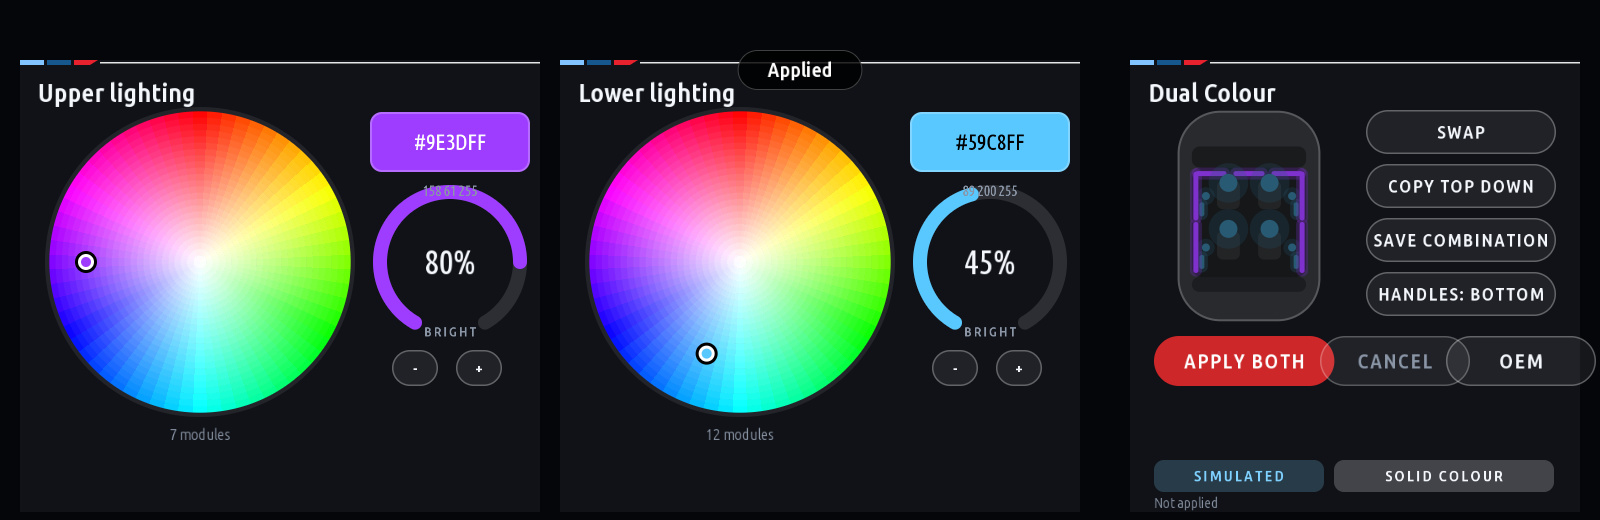
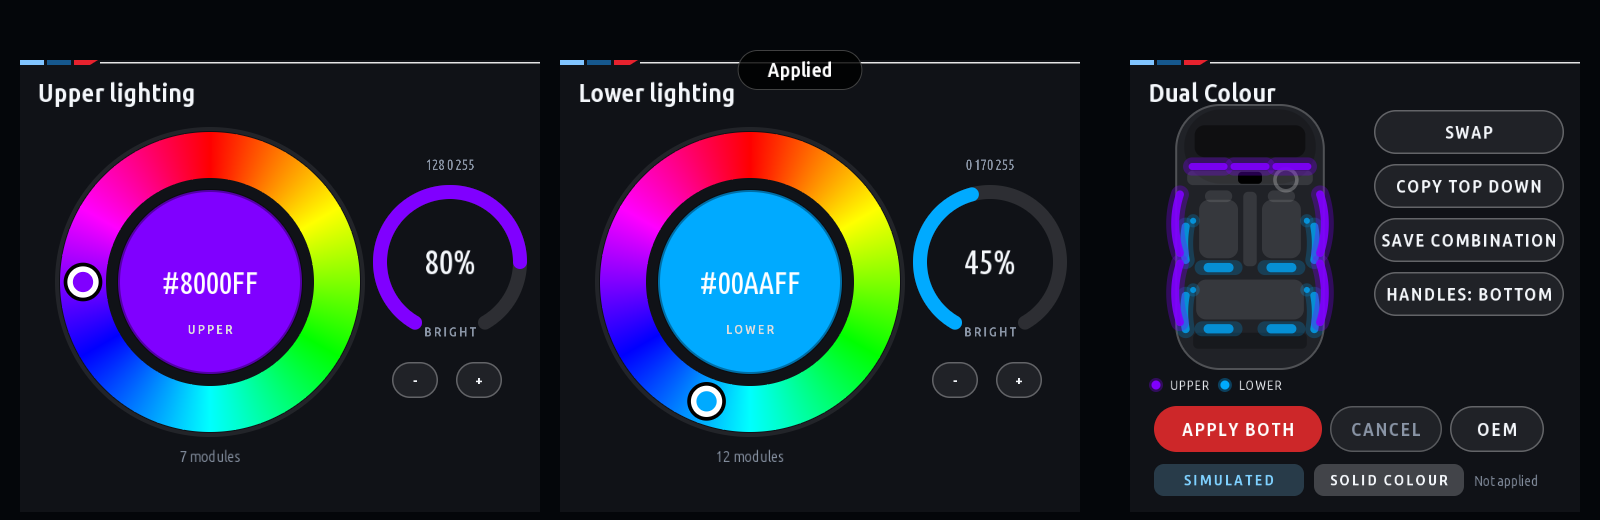
Cabin view after the mock-up, Dual page on hue rings, saturation fixed at 100
- ui_widgets carView redrawn: nose, glass, dashboard with screen and wheel (right-hand
  drive), seats, console, rear bench; the dashboard lines as three glowing segments, the
  door lines and map pockets as arcs following the body, handles as dots, footwells as
  pools; a heading, a legend and a status line; the colour stays vivid and the brightness
  sets the glow.
- Dual page: the same hue ring and dial as the Colours page for upper and lower, the cabin
  with both groups in the middle column, the action row laid out without overlap.
- Saturation is always 100: the control is gone, the ring and the knob pick pure hues;
  only the BDC's library colours carry their own.
- Tests follow (87 passing); screenshots regenerated.

diff --git a/bmw-g20-idrive-rgb/app/ambient_rgb/main.js b/bmw-g20-idrive-rgb/app/ambient_rgb/main.js
@@ -49,8 +49,9 @@ mgu.run({
 
         /* ---------- drafts (previews): one per page, never sent anywhere by themselves ---------- */
         const draft = {
-            colours: { hsv: { h: 262, s: 0.76, v: 1 }, brightness: 100, zone: 0 },                       // zone: index into ZONE_ORDER
-            dual: { top: { hsv: { h: 270, s: 0.76, v: 1 }, brightness: 80 }, bottom: { hsv: { h: 200, s: 0.65, v: 1 }, brightness: 45 }, focus: 'top' },
+            // (saturation is always 1: the ring picks pure hues; only the BDC's library colours carry their own)
+            colours: { hsv: { h: 262, s: 1, v: 1 }, brightness: 100, zone: 0 },                          // zone: index into ZONE_ORDER
+            dual: { top: { hsv: { h: 270, s: 1, v: 1 }, brightness: 80 }, bottom: { hsv: { h: 200, s: 1, v: 1 }, brightness: 45 }, focus: 'top' },
             modes: { mode: 0, params: clone(S.DEFAULTS) },                                                 // mode: index into MODE_ORDER
         };
         let dirty = { colours: false, dual: false, modes: false };
@@ -152,12 +153,12 @@ mgu.run({
         ctx.onTap((x, y) => {
             const g = geometry;
             if (page === 0) {
-                if (g.hue) { const h = W.hueRingHit(x, y, g.hue); if (h != null) { draft.colours.hsv.h = h; markDirty('colours'); return; } }
+                if (g.hue) { const h = W.hueRingHit(x, y, g.hue); if (h != null) { draft.colours.hsv = { h, s: 1, v: 1 }; markDirty('colours'); return; } }
                 if (g.ring) { const v = W.ringHit(x, y, g.ring); if (v != null) { draft.colours.brightness = v; markDirty('colours'); } }
             } else if (page === 1) {
                 for (const side of ['top', 'bottom']) {
-                    const w = g['wheel_' + side], r = g['ring_' + side];
-                    if (w) { const hit = C.wheelHit(x, y, w.cx, w.cy, w.r, { slack: 10 }); if (hit) { draft.dual[side].hsv = { h: hit.h, s: hit.s, v: draft.dual[side].hsv.v }; draft.dual.focus = side; markDirty('dual'); return; } }
+                    const hr = g['hue_' + side], r = g['ring_' + side];
+                    if (hr) { const h = W.hueRingHit(x, y, hr); if (h != null) { draft.dual[side].hsv = { h, s: 1, v: 1 }; draft.dual.focus = side; markDirty('dual'); return; } }
                     if (r) { const v = W.ringHit(x, y, r, 20); if (v != null) { draft.dual[side].brightness = v; draft.dual.focus = side; markDirty('dual'); return; } }
                 }
             }
@@ -188,7 +189,7 @@ mgu.run({
             ax += G.button(cv, t, ax, y, 0, h, 'Restore OEM', restoreOem, { key: 'oem', busy: busy || !ctl.program }) + 10;
             return ax;
         };
-        const wheelControl = (key, get, set) => editor.control({ key, get, set, step: 3, wrap: 360 });
+        const wheelControl = (key, get, set) => editor.control({ key, get, set: (h) => set(h), step: 3, wrap: 360 });
         const ringControl = (key, get, set) => editor.control({ key, get, set, step: 2, min: 0, max: 100 });
         const enter = (key) => () => { if (!editor.enter(key)) return; if (!editor.available) say('Turn the knob: no controller gate, use + / -', 2000); };
 
@@ -197,9 +198,8 @@ mgu.run({
         function drawColours(cv, t) {
             editor.reset();
             const d = draft.colours, c = rgbOf(d.hsv), hex = C.rgbToHex(c);
-            wheelControl('wheel', () => d.hsv.h, (h) => { d.hsv.h = h; });
+            wheelControl('wheel', () => d.hsv.h, (h) => { d.hsv = { h, s: 1, v: 1 }; });
             ringControl('ring', () => d.brightness, (v) => { d.brightness = v; });
-            editor.control({ key: 'sat', get: () => Math.round(d.hsv.s * 100), set: (v) => { d.hsv.s = v / 100; }, step: 5, min: 0, max: 100 });
             // the list on the left: this page, the other ways of lighting the cabin
             G.panel(cv, t, 20, 60, 400, 452, 'Colour');
             const rows = [
@@ -222,13 +222,11 @@ mgu.run({
             geometry.hue = W.hueRing(cv, t, HUE.cx, HUE.cy, HUE.r, HUE.w, d.hsv, { editing: editor.isEditing('wheel'), caption: dirty.colours ? 'preview' : ctl.program ? 'applied' : 'not applied' });
             cv.target(HUE.cx - 75, HUE.cy - 75, 150, 150, enter('wheel'), 'wheel');
             cv.text('HUE ' + Math.round(d.hsv.h) + '°   ·   RGB ' + c.r + ' ' + c.g + ' ' + c.b, HUE.cx, HUE.cy + HUE.r + 24, 15, t.dim, { align: 'center', font: 'num' });
-            // the brightness dial and saturation
-            geometry.ring = W.ring(cv, t, DIAL.cx, DIAL.cy, DIAL.r, d.brightness, 'Brightness', { editing: editor.isEditing('ring'), colour: hex, ramp: true, width: 14, size: 32 });
-            cv.target(DIAL.cx - 50, DIAL.cy - 50, 100, 100, enter('ring'), 'ring');
-            G.button(cv, t, DIAL.cx - 56, DIAL.cy + 82, 46, 36, '-', () => { d.brightness = Math.max(0, d.brightness - 5); markDirty('colours'); }, { key: 'ring-' });
-            G.button(cv, t, DIAL.cx + 10, DIAL.cy + 82, 46, 36, '+', () => { d.brightness = Math.min(100, d.brightness + 5); markDirty('colours'); }, { key: 'ring+' });
-            W.stepper(cv, t, DIAL.cx - 55, 346, 110, 'Saturation', Math.round(d.hsv.s * 100) + '%', () => { d.hsv.s = Math.max(0, d.hsv.s - 0.05); markDirty('colours'); }, () => { d.hsv.s = Math.min(1, d.hsv.s + 0.05); markDirty('colours'); }, 'sat', { editing: editor.isEditing('sat') });
-            cv.target(DIAL.cx - 55, 346, 110, 46, enter('sat'), 'sat');
+            // the brightness dial
+            geometry.ring = W.ring(cv, t, DIAL.cx, DIAL.cy + 40, DIAL.r, d.brightness, 'Brightness', { editing: editor.isEditing('ring'), colour: hex, ramp: true, width: 14, size: 32 });
+            cv.target(DIAL.cx - 50, DIAL.cy + 40 - 50, 100, 100, enter('ring'), 'ring');
+            G.button(cv, t, DIAL.cx - 56, DIAL.cy + 122, 46, 36, '-', () => { d.brightness = Math.max(0, d.brightness - 5); markDirty('colours'); }, { key: 'ring-' });
+            G.button(cv, t, DIAL.cx + 10, DIAL.cy + 122, 46, 36, '+', () => { d.brightness = Math.min(100, d.brightness + 5); markDirty('colours'); }, { key: 'ring+' });
             // actions under the ring
             const ax = applyRow(cv, t, 460, 462, 44, 'Apply', dirty.colours);
             G.button(cv, t, ax, 462, 0, 44, favs.has(hex) ? 'Saved' : 'Save colour', () => { if (favs.add(hex)) say('Saved ' + hex); }, { key: 'save', busy: favs.has(hex) });
@@ -236,7 +234,11 @@ mgu.run({
             G.button(cv, t, 1100, 64, 460, 44, 'Applies to: ' + S.zoneLabel(zoneName(), ctl.slaves) + '  ›', () => { d.zone = (d.zone + 1) % ZONE_ORDER.length; markDirty('colours'); }, { key: 'zone' });
             let scene = null;
             try { scene = S.render(coloursProgram(), ctl.slaves, Date.now()); } catch (e) { scene = null; }
-            W.carView(cv, t, 1150, 116, 360, 316, ctl.slaves, scene, { label: dirty.colours ? 'preview (not applied)' : ctl.program ? 'as applied' : 'factory lighting' });
+            W.carView(cv, t, 1080, 110, 500, 346, ctl.slaves, scene, {
+                heading: 'front · right-hand drive',
+                legend: [{ colour: hex, text: S.zoneLabel(zoneName(), ctl.slaves) + ' · solid' }],
+                status: (ctl.kind === 'mock' ? 'simulated · ' : '') + (dirty.colours ? 'preview' : ctl.program ? 'applied' : 'factory'), statusColour: dirty.colours ? t.warn : ctl.program ? t.ok : t.dim,
+            });
             // the BDC's library colours
             let cx = 1100;
             favs.oem().forEach((f) => {
@@ -253,39 +255,45 @@ mgu.run({
         function drawDual(cv, t) {
             editor.reset();
             const d = draft.dual;
+            // two pickers as on the Colours page: the hue ring with the colour in its middle, the brightness dial beside it
             ['top', 'bottom'].forEach((side, i) => {
                 const x0 = 40 + i * 540, s = d[side], col = rgbOf(s.hsv), hex = C.rgbToHex(col);
-                wheelControl('wheel_' + side, () => s.hsv.h, (h) => { s.hsv.h = h; d.focus = side; });
+                wheelControl('wheel_' + side, () => s.hsv.h, (h) => { s.hsv = { h, s: 1, v: 1 }; d.focus = side; });
                 ringControl('ring_' + side, () => s.brightness, (v) => { s.brightness = v; d.focus = side; });
                 G.panel(cv, t, x0 - 20, 60, 520, 452, side === 'top' ? 'Upper lighting' : 'Lower lighting');
-                geometry['wheel_' + side] = W.wheel(cv, t, x0 + 10, 112, 300, s.hsv, { editing: editor.isEditing('wheel_' + side) });
-                cv.target(x0 + 100, 202, 120, 120, enter('wheel_' + side), 'wheel_' + side);   // (the centre, as on Colours)
+                const hc = { cx: x0 + 170, cy: 282, r: 150, w: 46 };
+                geometry['hue_' + side] = W.hueRing(cv, t, hc.cx, hc.cy, hc.r, hc.w, s.hsv, { editing: editor.isEditing('wheel_' + side), caption: side === 'top' ? 'upper' : 'lower' });
+                cv.target(hc.cx - 65, hc.cy - 65, 130, 130, enter('wheel_' + side), 'wheel_' + side);   // (the disc: the knob's target)
                 geometry['ring_' + side] = W.ring(cv, t, x0 + 410, 262, 70, s.brightness, 'Bright', { editing: editor.isEditing('ring_' + side), colour: hex, width: 14, size: 34 });
                 cv.target(x0 + 370, 222, 80, 80, enter('ring_' + side), 'ring_' + side);
-                G.button(cv, t, x0 + 352, 350, 46, 36, '-', () => { s.brightness = Math.max(0, s.brightness - 5); markDirty('dual'); }, { key: 'ring_' + side + '-' });
-                G.button(cv, t, x0 + 416, 350, 46, 36, '+', () => { s.brightness = Math.min(100, s.brightness + 5); markDirty('dual'); }, { key: 'ring_' + side + '+' });
-                W.swatch(cv, t, x0 + 330, 112, 160, 60, col, null, { size: 22, radius: 12, editing: editor.isEditing('wheel_' + side) });
-                cv.text(col.r + ' ' + col.g + ' ' + col.b, x0 + 410, 196, 15, t.dim, { align: 'center', font: 'num' });
+                G.button(cv, t, x0 + 352, 362, 46, 36, '-', () => { s.brightness = Math.max(0, s.brightness - 5); markDirty('dual'); }, { key: 'ring_' + side + '-' });
+                G.button(cv, t, x0 + 416, 362, 46, 36, '+', () => { s.brightness = Math.min(100, s.brightness + 5); markDirty('dual'); }, { key: 'ring_' + side + '+' });
+                cv.text(col.r + ' ' + col.g + ' ' + col.b, x0 + 410, 170, 15, t.dim, { align: 'center', font: 'num' });
                 const n = ctl.slaves.filter((m) => S.groupOf(m, settings.get('handles') || 'bottom') === side).length;
-                cv.text(n + ' modules', x0 + 160, 440, 15, t.dim, { align: 'center' });
+                cv.text(n + ' modules', x0 + 170, 462, 15, t.dim, { align: 'center' });
             });
-            // the middle column: swap / copy / save / apply
+            // the middle column: the cabin with both groups, swap / copy / save / handles, Apply both
             const mx = 1130, my = 60;
             G.panel(cv, t, mx, my, 450, 452, 'Dual Colour');
             let scene = null;
             try { scene = S.render(dualProgram(), ctl.slaves, Date.now()); } catch (e) { scene = null; }
-            W.carView(cv, t, mx + 14, my + 44, 210, 224, ctl.slaves, scene);
+            W.carView(cv, t, mx + 10, my + 40, 220, 300, ctl.slaves, scene, {
+                legend: [{ colour: C.rgbToHex(rgbOf(d.top.hsv)), text: 'upper' }, { colour: C.rgbToHex(rgbOf(d.bottom.hsv)), text: 'lower' }],
+            });
             let by = my + 50;
-            const bw = 190, bx = mx + 236;
+            const bw = 190, bx = mx + 244;
             G.button(cv, t, bx, by, bw, 44, 'Swap', () => { const a = clone(d.top); d.top = clone(d.bottom); d.bottom = a; markDirty('dual'); }, { key: 'swap' }); by += 54;
             G.button(cv, t, bx, by, bw, 44, 'Copy top down', () => { d.bottom = clone(d.top); markDirty('dual'); }, { key: 'copy' }); by += 54;
             G.button(cv, t, bx, by, bw, 44, 'Save combination', () => { const p = favs.addPreset('Dual ' + C.rgbToHex(rgbOf(d.top.hsv)) + '/' + C.rgbToHex(rgbOf(d.bottom.hsv)), dualProgram()); say('Saved ' + p.name); }, { key: 'savecombo' }); by += 54;
-            G.button(cv, t, bx, by, bw, 44, 'Handles: ' + (settings.get('handles') || 'bottom'), () => { const o = ['top', 'bottom', 'off']; settings.set('handles', o[(o.indexOf(settings.get('handles') || 'bottom') + 1) % 3]); markDirty('dual'); }, { key: 'handles' }); by += 64;
-            G.button(cv, t, mx + 24, by, 0, 50, 'Apply both', () => applyProgram(dualProgram(), 'Applied upper and lower'), { primary: true, key: 'apply' });
-            G.button(cv, t, mx + 190, by, 0, 50, 'Cancel', cancelPage, { key: 'cancel', busy: !dirty.dual });
-            G.button(cv, t, mx + 316, by, 0, 50, 'OEM', restoreOem, { key: 'oem', busy: busy || !ctl.program });
-            linkPill(cv, t, mx + 24, my + 400); statePill(cv, t, mx + 204, my + 400, 220);
-            cv.text(dirty.dual ? 'Preview only until Apply both' : ctl.program && ctl.program.mode === 'dual' ? 'Applied' : 'Not applied', mx + 24, my + 448, 14, t.dim);
+            G.button(cv, t, bx, by, bw, 44, 'Handles: ' + (settings.get('handles') || 'bottom'), () => { const o = ['top', 'bottom', 'off']; settings.set('handles', o[(o.indexOf(settings.get('handles') || 'bottom') + 1) % 3]); markDirty('dual'); }, { key: 'handles' });
+            // the action row, each button after the previous one (auto widths)
+            let ax = mx + 24;
+            const ay = my + 346;
+            ax += G.button(cv, t, ax, ay, 168, 46, 'Apply both', () => applyProgram(dualProgram(), 'Applied upper and lower'), { primary: true, key: 'apply' }) + 8;
+            ax += G.button(cv, t, ax, ay, 112, 46, 'Cancel', cancelPage, { key: 'cancel', busy: !dirty.dual }) + 8;
+            G.button(cv, t, ax, ay, 94, 46, 'OEM', restoreOem, { key: 'oem', busy: busy || !ctl.program });
+            linkPill(cv, t, mx + 24, my + 404, 150); statePill(cv, t, mx + 184, my + 404, 150);
+            cv.text(dirty.dual ? 'Preview only until Apply both' : ctl.program && ctl.program.mode === 'dual' ? 'Applied' : 'Not applied', mx + 344, my + 426, 14, t.dim);
         }
 
         /* ---------- MODES ---------- */

diff --git a/bmw-g20-idrive-rgb/app/ambient_rgb/ui_widgets.js b/bmw-g20-idrive-rgb/app/ambient_rgb/ui_widgets.js
@@ -107,45 +107,71 @@ function hueRingHit(x, y, geom, slack) {
 /**
  * The cabin from above (nose up, right-hand drive: the driver on the right), each ambient module drawn where it
  * sits in the colour the scene gives it: scene = { 'bus:nad': { r, g, b, brightness } } (lighting_scene.render);
- * a module not in the scene is drawn as OEM (dim). Returns the body rect.
+ * a module not in the scene is drawn as OEM (dim). opts: heading (text above), legend ([{ colour, text }] below),
+ * status (text at the bottom right), oemColour. Returns the body rect.
  */
 function carView(cv, t, x, y, w, h, slaves, scene, opts) {
     const o = opts || {};
     const S = require('./lighting_scene');
-    const bx = x + w * 0.16, bw = w * 0.68, by = y + h * 0.03, bh = h * 0.94;
-    // body, glass, cabin floor
-    cv.roundRect(bx, by, bw, bh, bw * 0.3, withAlpha('#ffffff', 0.10));
-    cv.strokeRoundRect(bx, by, bw, bh, bw * 0.3, 2, withAlpha('#ffffff', 0.22));
-    const cabY = by + bh * 0.27, cabH = bh * 0.52, cabX = bx + bw * 0.10, cabW = bw * 0.80;
-    cv.roundRect(cabX, by + bh * 0.17, cabW, bh * 0.10, 8, withAlpha('#000000', 0.35));          // windscreen
-    cv.roundRect(cabX, cabY, cabW, cabH, 10, withAlpha('#000000', 0.45));                          // cabin
-    cv.roundRect(cabX, cabY + cabH, cabW, bh * 0.07, 8, withAlpha('#000000', 0.3));               // rear window
-    // seats
-    [[0.22, 0.12], [0.58, 0.12], [0.22, 0.58], [0.58, 0.58]].forEach(([fx, fy]) => cv.roundRect(cabX + cabW * fx, cabY + cabH * fy, cabW * 0.2, cabH * 0.26, 6, withAlpha('#ffffff', 0.06)));
-    const oem = o.oemColour || withAlpha('#9fb4ff', 0.28);
-    const colourOf = (m) => { const s = scene && scene[S.key(m)]; if (!s) return { c: oem, on: false }; const k = Math.max(0.15, (s.brightness == null ? 100 : s.brightness) / 100); return { c: C.rgbToHex(C.rgb(s.r * k, s.g * k, s.b * k)), on: true }; };
-    const glow = (xa, ya, xb, yb, m) => {
-        const { c, on } = colourOf(m);
-        if (on) cv.line(xa, ya, xb, yb, 12, withAlpha(c, 0.28));
-        cv.line(xa, ya, xb, yb, on ? 5 : 3, c);
+    const top = y + (o.heading ? 22 : 4), bottom = y + h - (o.legend || o.status ? 30 : 4);
+    const bh = bottom - top, bw = Math.min(w * 0.68, bh * 0.8), bx = x + (w - bw) / 2, by = top;
+    const line = withAlpha('#ffffff', 0.22), shell = withAlpha('#ffffff', 0.07), glass = withAlpha('#000000', 0.42), trim = withAlpha('#ffffff', 0.10);
+    if (o.heading) cv.text(String(o.heading).toUpperCase(), x + w / 2, y + 12, 12, t.dim, { align: 'center', font: 'bold', spacing: 2 });
+    // the body: a wider rear, a narrower nose
+    cv.roundRect(bx, by, bw, bh, bw * 0.30, shell);
+    cv.strokeRoundRect(bx, by, bw, bh, bw * 0.30, 2, line);
+    cv.roundRect(bx + bw * 0.06, by + bh * 0.02, bw * 0.88, bh * 0.28, bw * 0.26, withAlpha('#000000', 0.18));
+    // glass, dashboard, screen, wheel
+    cv.roundRect(bx + bw * 0.13, by + bh * 0.08, bw * 0.74, bh * 0.12, 10, glass);
+    cv.roundRect(bx + bw * 0.08, by + bh * 0.25, bw * 0.84, bh * 0.055, 6, trim);
+    cv.roundRect(bx + bw * 0.42, by + bh * 0.255, bw * 0.16, bh * 0.045, 4, '#000000');
+    const wx = bx + bw * 0.74, wy = by + bh * 0.285, wr = bw * 0.085;
+    cv.arc(wx, wy, wr * 0.72, wr, 0, 360, withAlpha('#ffffff', 0.25));
+    // seats and the console
+    const seat = (sx, sy, sw, sh) => { cv.roundRect(sx, sy, sw, sh, 10, trim); cv.roundRect(sx + sw * 0.15, sy - sh * 0.16, sw * 0.7, sh * 0.2, 6, trim); };
+    seat(bx + bw * 0.16, by + bh * 0.36, bw * 0.26, bh * 0.22); seat(bx + bw * 0.58, by + bh * 0.36, bw * 0.26, bh * 0.22);
+    cv.roundRect(bx + bw * 0.455, by + bh * 0.33, bw * 0.09, bh * 0.28, 5, trim);
+    cv.roundRect(bx + bw * 0.14, by + bh * 0.66, bw * 0.72, bh * 0.15, 10, trim);
+    cv.roundRect(bx + bw * 0.12, by + bh * 0.86, bw * 0.76, bh * 0.06, 5, withAlpha('#000000', 0.25));
+    // the modules
+    const oem = o.oemColour || withAlpha('#9fb4ff', 0.30);
+    // the colour stays vivid; the brightness sets how strongly it glows
+    const colourOf = (m) => { const s = scene && scene[S.key(m)]; if (!s) return { c: oem, on: false, k: 0 }; const k = Math.max(0.1, (s.brightness == null ? 100 : s.brightness) / 100); return { c: withAlpha(C.rgbToHex(C.rgb(s.r, s.g, s.b)), 0.55 + 0.45 * k), g: withAlpha(C.rgbToHex(C.rgb(s.r, s.g, s.b)), 0.1 + 0.25 * k), on: true, k }; };
+    const glowLine = (xa, ya, xb, yb, m, wd) => { const { c, g, on } = colourOf(m); if (on) cv.line(xa, ya, xb, yb, (wd || 5) * 2.6, g); cv.line(xa, ya, xb, yb, on ? (wd || 5) : 3, c); };
+    // a door line: an arc bulging with the body's side, from y0 to y1 on side right/left
+    const doorArc = (right, y0, y1, m, inset) => {
+        const { c, g, on } = colourOf(m);
+        const R = bw * 0.62, cxA = bx + bw / 2 + (right ? -1 : 1) * (R - bw / 2 + (inset || 0)), ym = (y0 + y1) / 2;
+        const dA = Math.asin(Math.min(1, (y1 - y0) / 2 / R)) * 180 / Math.PI, base = right ? 90 : 270;
+        if (on) cv.arc(cxA, ym, R - 9, R + 9, base - dA, base + dA, g, { round: true });
+        cv.arc(cxA, ym, R - (on ? 4 : 1.5), R + (on ? 4 : 1.5), base - dA, base + dA, c, { round: true });
     };
-    const dot = (px, py, r, m) => { const { c, on } = colourOf(m); if (on) cv.circle(px, py, r * 2.2, withAlpha(c, 0.22)); cv.circle(px, py, r, c); };
+    const blob = (px, py, rw, rh, m) => { const { c, g, on } = colourOf(m); if (on) cv.roundRect(px - rw * 0.8, py - rh * 0.8, rw * 1.6, rh * 1.6, rh * 0.8, g); cv.roundRect(px - rw / 2, py - rh / 2, rw, rh, rh / 2, c); };
+    const dot = (px, py, r, m) => { const { c, g, on } = colourOf(m); if (on) cv.circle(px, py, r * 2.2, g); cv.circle(px, py, r, c); };
     (slaves || []).forEach((m) => {
-        const cat = S.category(m), right = S.isDriverSide(m), rear = S.isRear(m);
-        const sideX = right ? cabX + cabW - 4 : cabX + 4, dir = right ? -1 : 1;
-        const y0 = rear ? cabY + cabH * 0.52 : cabY + cabH * 0.06, y1 = rear ? cabY + cabH * 0.94 : cabY + cabH * 0.46;
+        const cat = S.category(m), right = S.isDriverSide(m), rear = S.isRear(m), dir = right ? -1 : 1;
+        const edge = right ? bx + bw - 3 : bx + 3;
+        const y0 = rear ? by + bh * 0.60 : by + bh * 0.34, y1 = rear ? by + bh * 0.82 : by + bh * 0.56;
         if (cat === 'dashLine' || cat === 'dashTrim') {
-            // three lines across the top of the cabin: passenger third, centre, driver third
             const centre = m.locationId === 0x15 || m.locationId === 0x16;     // (the car: 0x13 driver, 0x15 centre, 0x17 passenger)
-            const third = cabW / 3, i = centre ? 1 : right ? 2 : 0;
-            glow(cabX + third * i + 6, cabY + 6, cabX + third * (i + 1) - 6, cabY + 6, m);
-        } else if (cat === 'doorLine' || cat === 'doorTrim') glow(sideX, y0, sideX, y1, m);
-        else if (cat === 'handle') dot(sideX + dir * 10, (y0 + y1) / 2, 4, m);
-        else if (cat === 'pocket') glow(sideX + dir * 6, y1 - cabH * 0.12, sideX + dir * 6, y1 - 4, m);
-        else if (cat === 'footwell') dot(cabX + cabW * (right ? 0.68 : 0.32), rear ? cabY + cabH * 0.56 : cabY + cabH * 0.1 + cabH * 0.04, 9, m);
-        else dot(sideX + dir * 14, (y0 + y1) / 2 + 14, 3, m);
+            const i = centre ? 1 : right ? 2 : 0, x0 = bx + bw * 0.08, span = bw * 0.84 / 3;
+            glowLine(x0 + span * i + 5, by + bh * 0.235, x0 + span * (i + 1) - 5, by + bh * 0.235, m, 7);
+        } else if (cat === 'doorLine' || cat === 'doorTrim') doorArc(right, y0, y1, m, 0);
+        else if (cat === 'handle') dot(edge + dir * bw * 0.10, y0 + (y1 - y0) * 0.45, Math.max(3, bw * 0.02), m);
+        else if (cat === 'pocket') doorArc(right, y0 + (y1 - y0) * 0.55, y1 + (y1 - y0) * 0.12, m, bw * 0.06);
+        else if (cat === 'footwell') blob(bx + bw * (right ? 0.71 : 0.29), rear ? by + bh * 0.845 : by + bh * 0.615, bw * 0.2, bh * 0.035, m);
+        else dot(edge + dir * bw * 0.14, (y0 + y1) / 2 + 14, 3, m);
     });
-    if (o.label) cv.text(String(o.label).toUpperCase(), x + w / 2, by + bh + 20, 13, t.dim, { align: 'center', font: 'bold', spacing: 2 });
+    // the legend and the status line under the car
+    if (o.legend) {
+        let lx = x + 8;
+        o.legend.forEach((l) => {
+            cv.circle(lx + 8, bottom + 15, 7, withAlpha(l.colour, 0.3)); cv.circle(lx + 8, bottom + 15, 4.5, l.colour);
+            cv.text(String(l.text).toUpperCase(), lx + 22, bottom + 20, 13, t.text, { spacing: 1 });
+            lx += 30 + cv.textWidth(String(l.text).toUpperCase(), 13, { spacing: 1 });
+        });
+    }
+    if (o.status) cv.text(String(o.status).toUpperCase(), x + w - 8, bottom + 20, 13, o.statusColour || t.dim, { align: 'right', font: 'bold', spacing: 2 });
     return { x: bx, y: by, w: bw, h: bh };
 }
 

diff --git a/bmw-g20-idrive-rgb/tests/node/test_ui.js b/bmw-g20-idrive-rgb/tests/node/test_ui.js
@@ -14,7 +14,7 @@ test('every page draws with its controls as targets; the simulated link is up; n
     const h = await harness({ sets: { backend: 'mock' } });
     for (const p of Object.values(PAGE)) { h.tab(p); const cv = await h.frame(); assert.ok(cv.words().length > 100, 'page ' + p); }
     h.tab(0); await h.frame();
-    ['wheel', 'ring', 'sat', 'zone', 'apply', 'oem:#783CFE'].forEach((k) => assert.ok(keys(h).indexOf(k) >= 0, k + ' in ' + keys(h)));
+    ['wheel', 'ring', 'zone', 'apply', 'oem:#783CFE'].forEach((k) => assert.ok(keys(h).indexOf(k) >= 0, k + ' in ' + keys(h)));
     assert.strictEqual(h.app.ctl().program, null);
     assert.strictEqual(h.app.ctl().scheduler.stats.writes, 0);
     assert.ok(h.png().length > 5000);
@@ -25,9 +25,9 @@ test('PREVIEW ONLY: taps on the wheel and the dial change the screen, not the ca
     await h.frame();
     h.tap(640, 98);                                               // the top of the hue ring (centre 640, 250; 124..180): hue 0
     assert.ok(Math.abs(h.app.draft.colours.hsv.h) < 1e-6 || Math.abs(h.app.draft.colours.hsv.h - 360) < 1e-6);
-    assert.strictEqual(h.app.draft.colours.hsv.s, 0.76, 'the ring sets the hue only: saturation keeps its value');
+    assert.strictEqual(h.app.draft.colours.hsv.s, 1, 'the ring picks pure hues: saturation is always 1');
     assert.strictEqual(h.app.dirty().colours, true);
-    h.tap(930, 180 - 64);                                         // top of the brightness dial = 50 % (the ring runs 210 -> 150 degrees)
+    h.tap(930, 220 - 64);                                         // top of the brightness dial (centre 930, 220) = 50 % (the ring runs 210 -> 150 degrees)
     assert.strictEqual(h.app.draft.colours.brightness, 50);
     await h.frame();
     assert.strictEqual(h.app.ctl().scheduler.stats.writes, 0, 'NOTHING written by previewing');
@@ -38,7 +38,7 @@ test('PREVIEW ONLY: taps on the wheel and the dial change the screen, not the ca
     assert.strictEqual(ctl.program.mode, 'solid');
     assert.strictEqual(ctl.program.brightness, 50);
     const c1 = phys(h, '2:1');
-    assert.ok(c1[0] === 254 && c1[1] === c1[2] && c1[1] === 61, 'hue 0 at the draft saturation 0.76 = 254 61 61: ' + c1);
+    assert.ok(c1[0] === 254 && c1[1] < 4 && c1[2] < 4, 'red: ' + c1);
     assert.strictEqual(c1[3], 50);
     assert.strictEqual(h.app.dirty().colours, false);
     await ctl.shutdown();
@@ -91,8 +91,8 @@ test('Dual Colour: two drafts, swap and copy, Apply both drives upper and lower 
     const h = await harness({ sets: { backend: 'mock', handles: 'bottom' } });
     h.tab(PAGE.dual); await h.frame();
     const d = h.app.draft.dual;
-    h.tap(200, 113);                                              // top wheel (centre 200, 262; r 150): its top edge = hue 0, red
-    h.tap(740, 113);                                              // bottom wheel: hue 0 too
+    h.tap(210, 155);                                              // upper hue ring (centre 210, 282; band 104..150): its top = hue 0, red
+    h.tap(750, 155);                                              // lower hue ring: hue 0 too
     d.bottom.hsv = { h: 200, s: 0.65, v: 1 };
     assert.strictEqual(h.app.ctl().program, null, 'preview only');
     await h.frame();

diff --git a/bmw-g20-idrive-rgb/scripts/preview_frames.js b/bmw-g20-idrive-rgb/scripts/preview_frames.js
@@ -19,7 +19,7 @@ const sleep = (ms) => new Promise((r) => setTimeout(r, ms));
     const h = await harness({ sets: { backend: 'mock', demo: 'off' } });
     const shot = async (name) => { await h.frame(); const f = path.join(out, name + '.png'); h.png(f); console.log('frame', f, 'targets', h.targets().length); };
     await shot('01-colours');
-    h.tap(640, 98); h.tap(930, 116);                       // red, 50 %
+    h.tap(640, 98); h.tap(930, 156);                       // red, 50 %
     await shot('02-colours-preview');
     await h.press('wheel');                                 // editing with the knob
     await shot('03-colours-editing');
